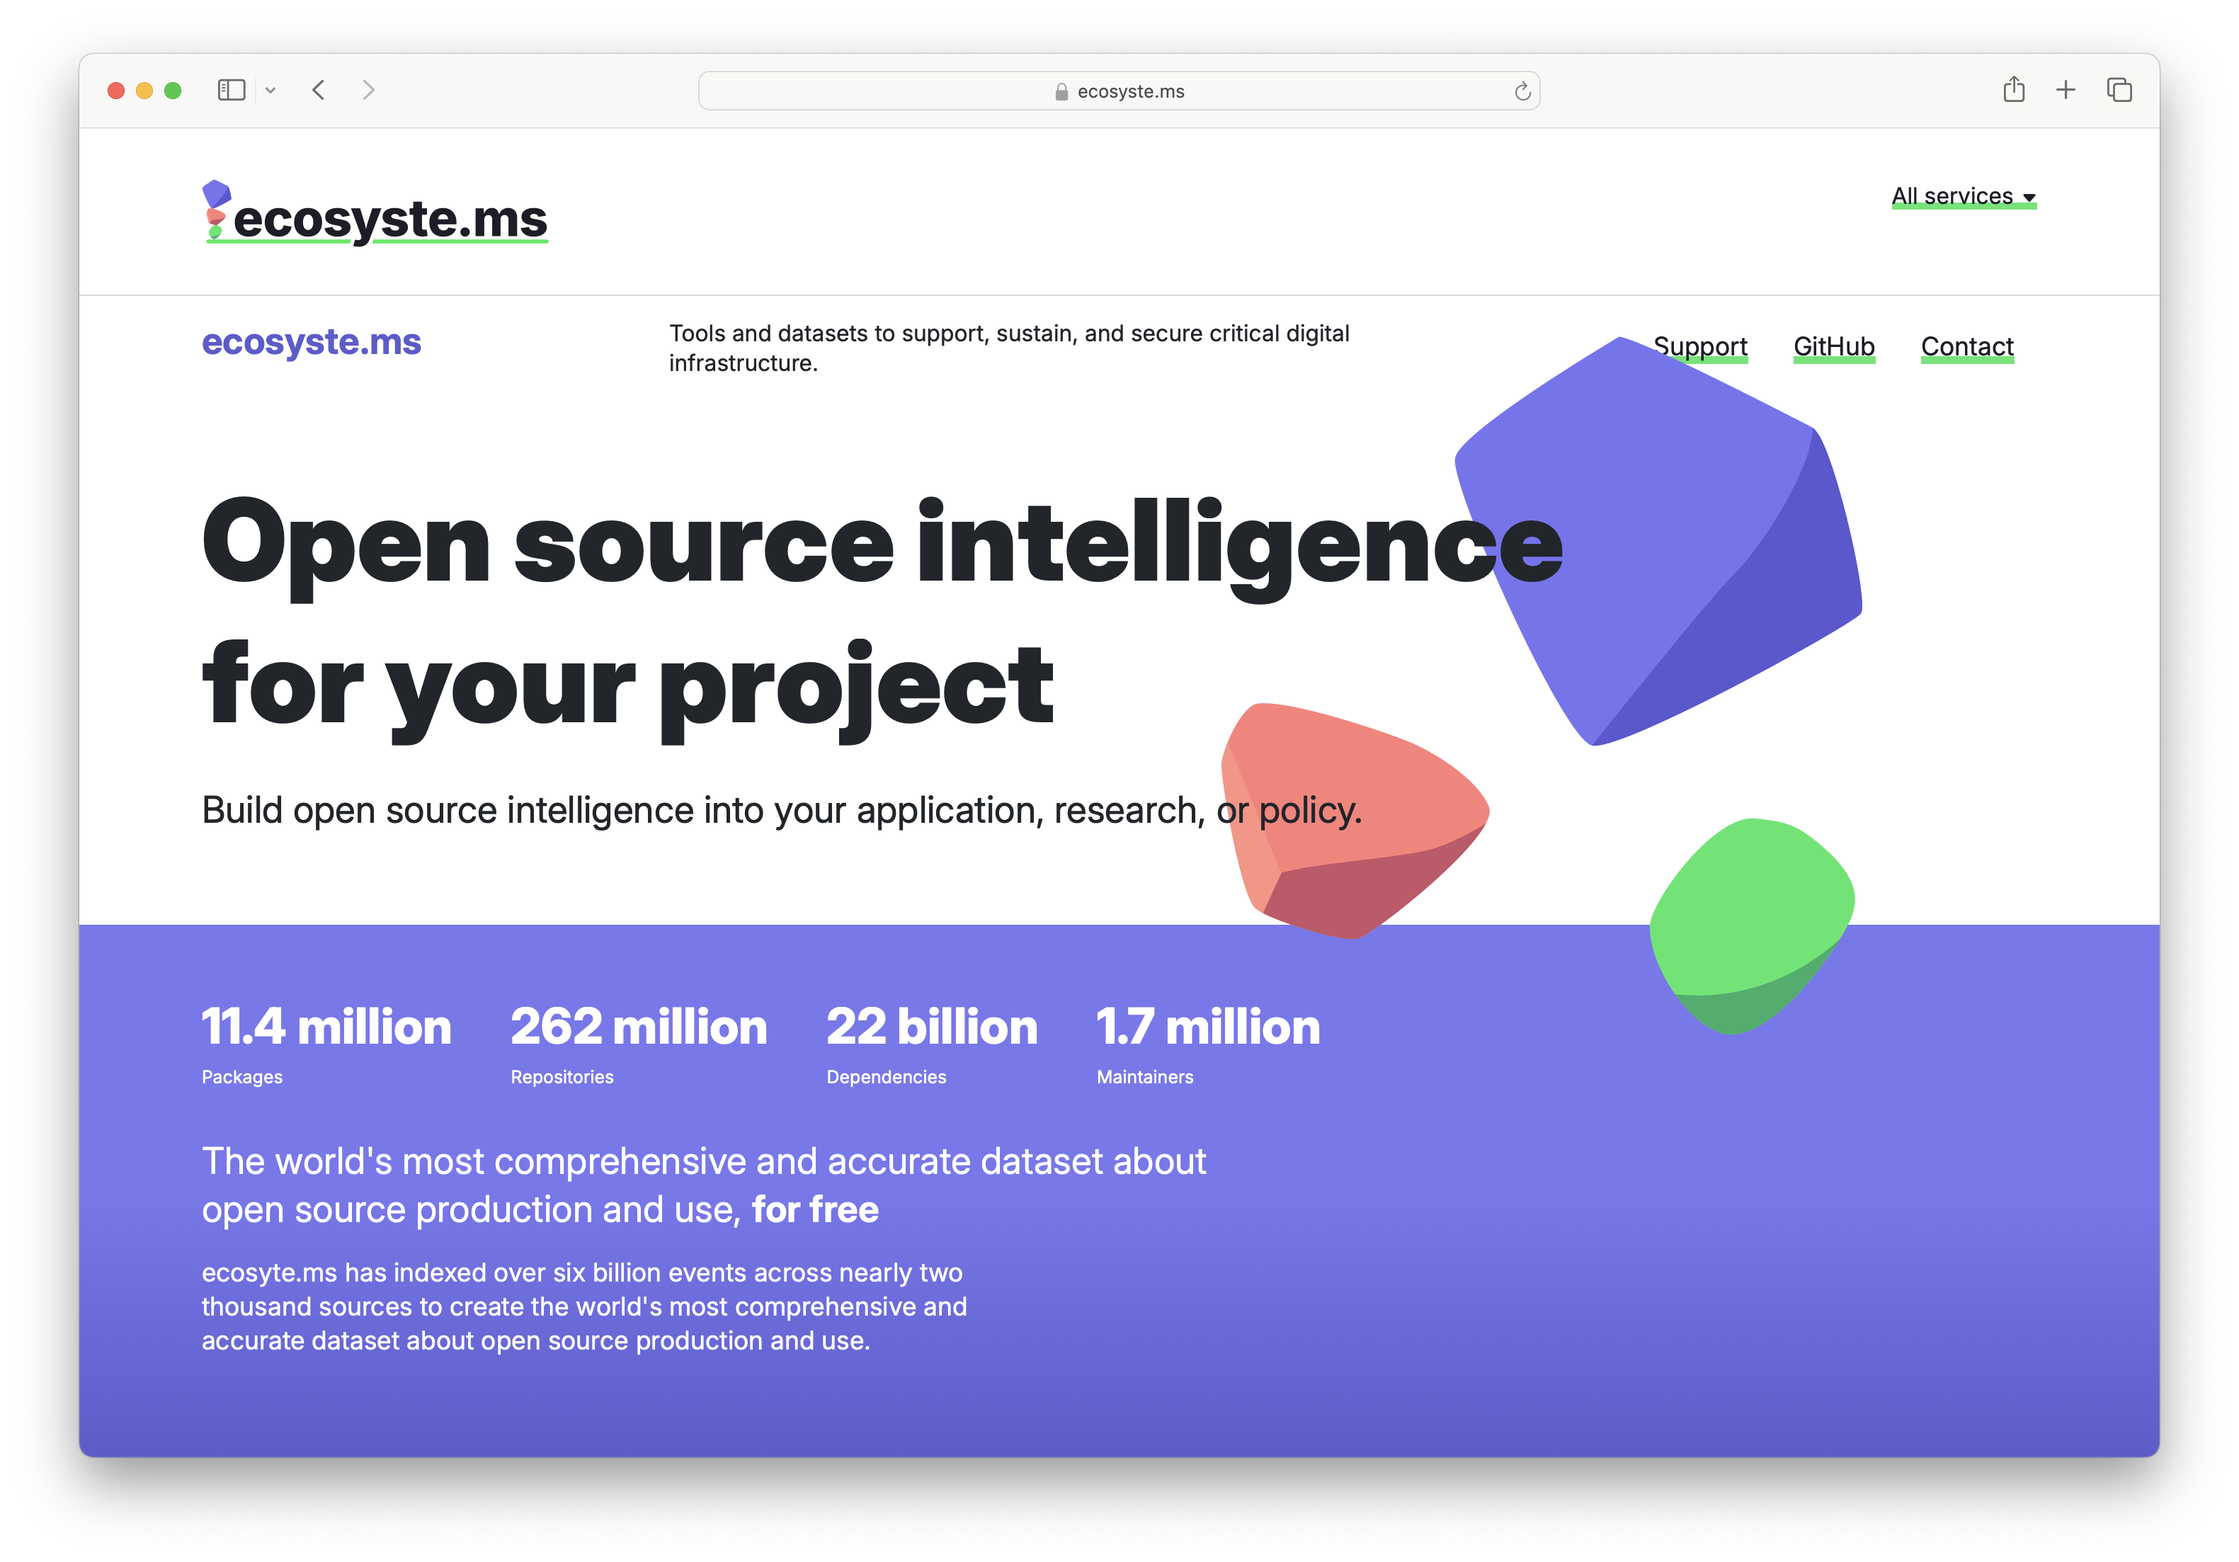
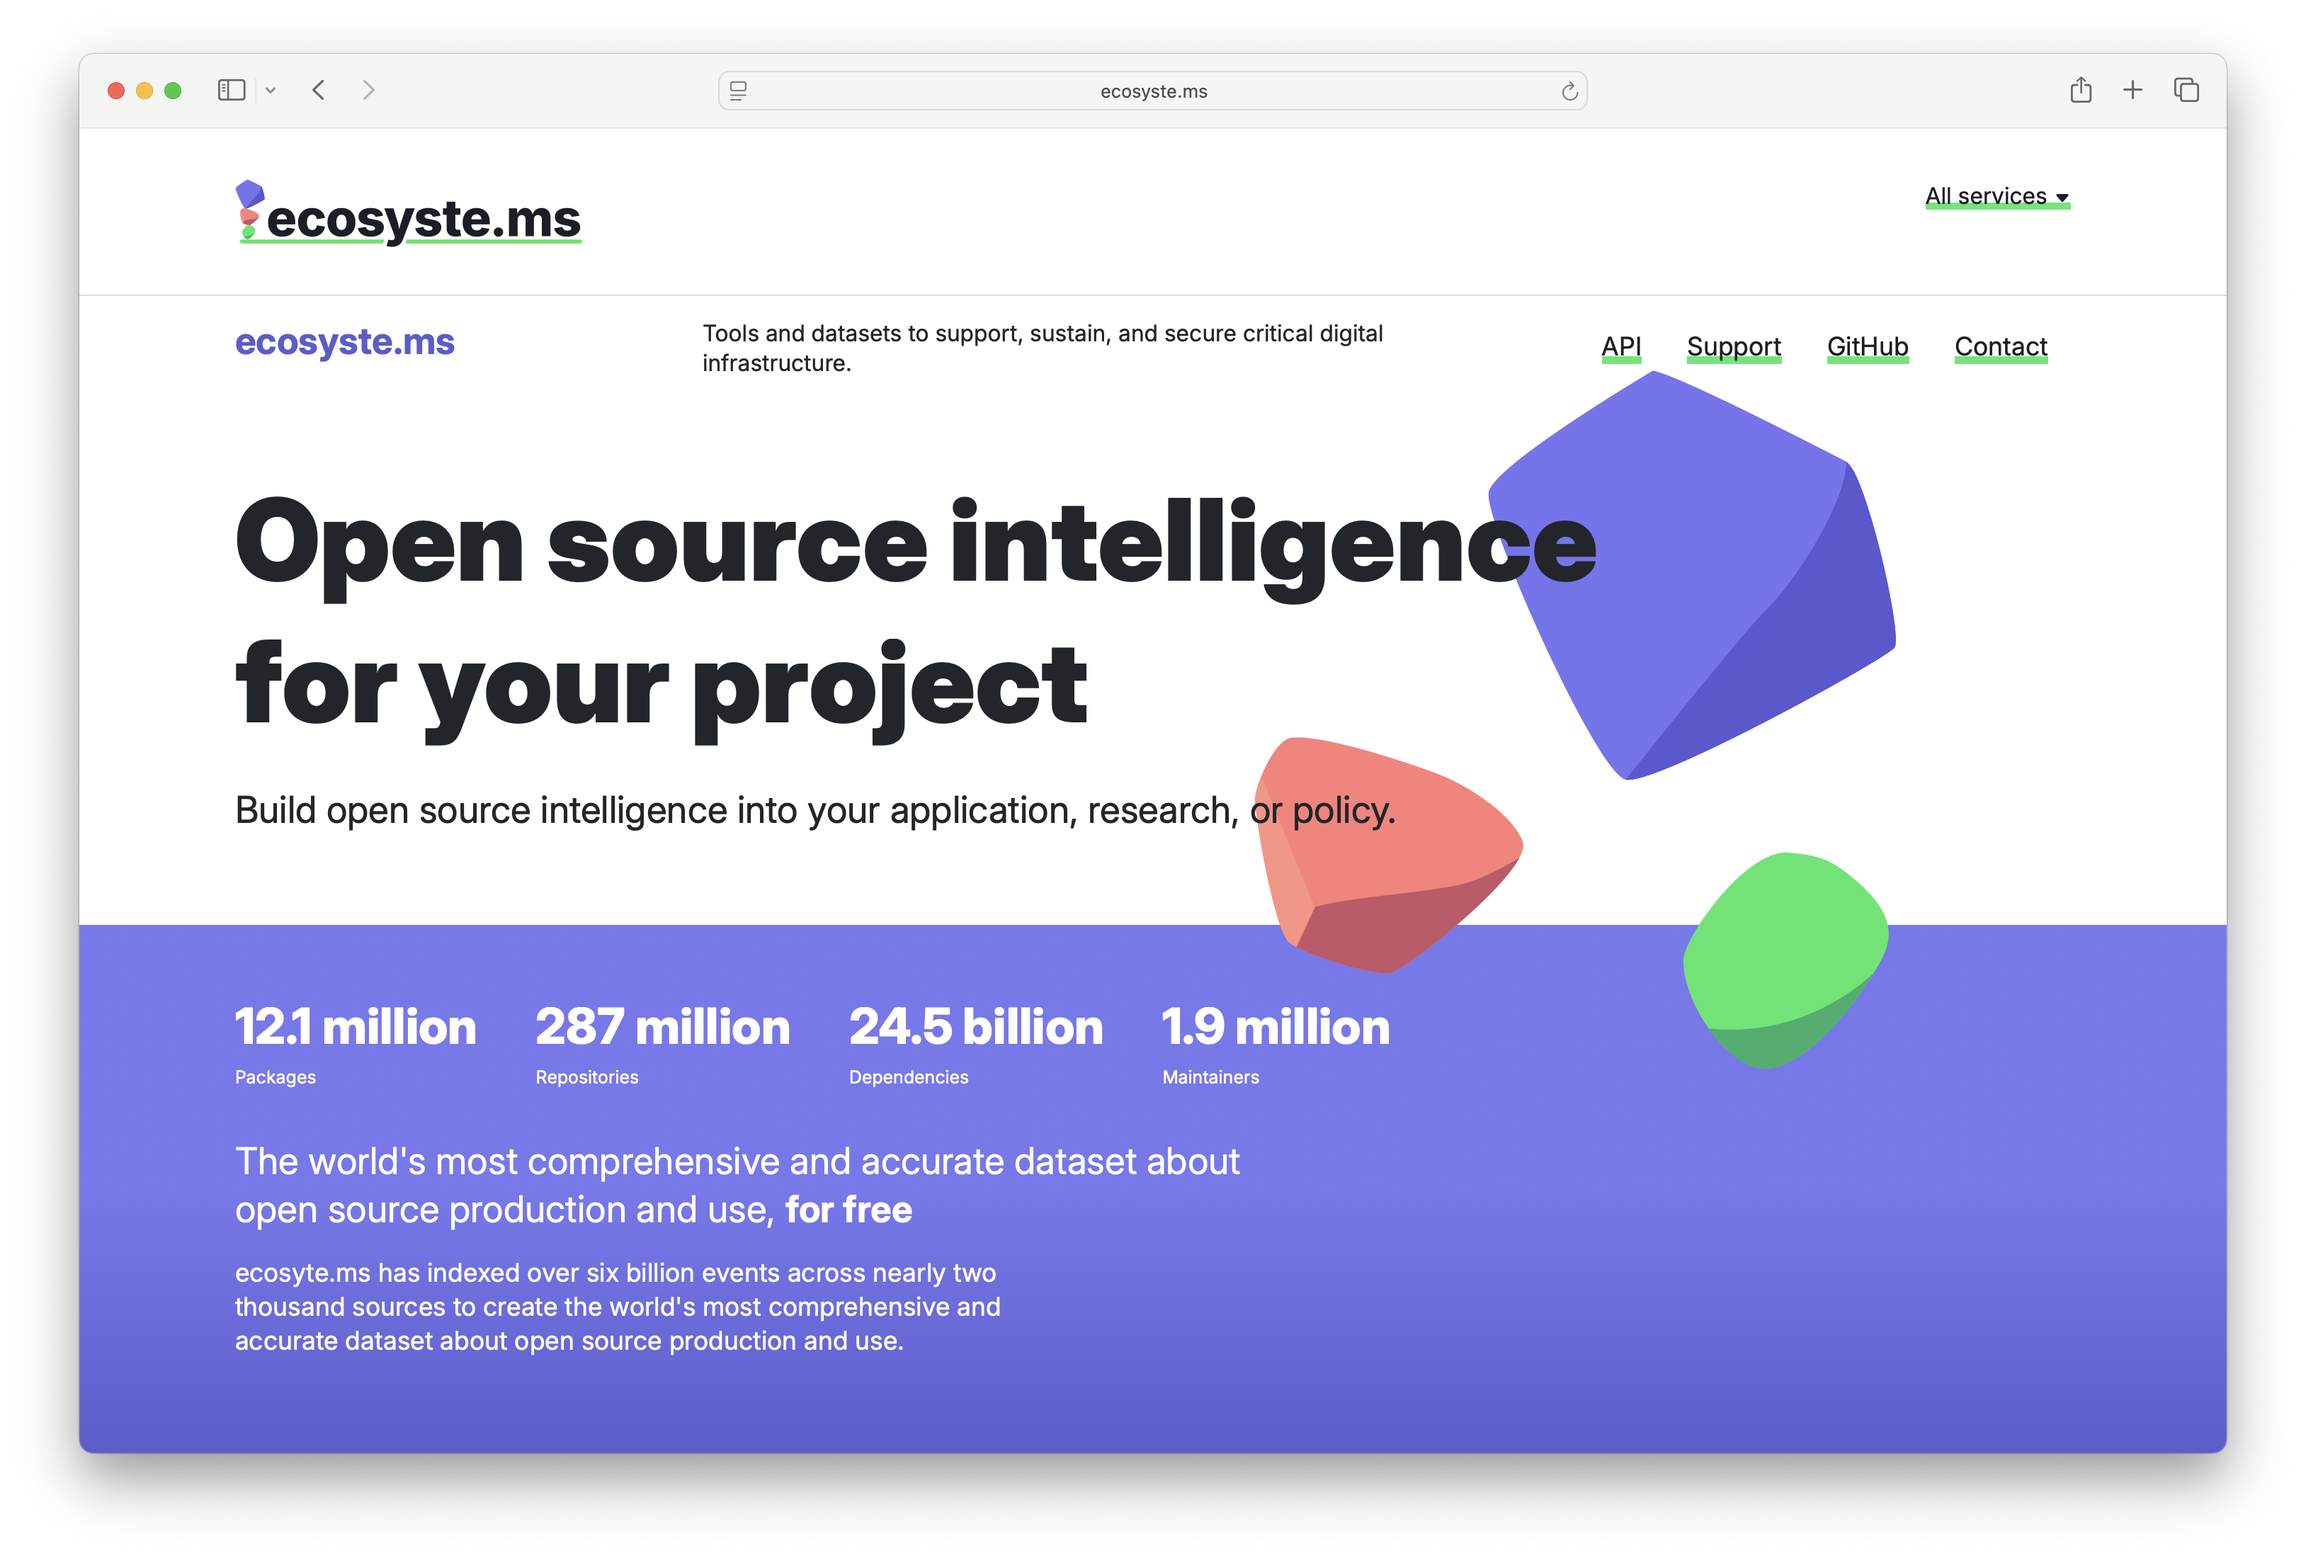
Update presentation statistics for the State of OSS Funding

diff --git a/index.html b/index.html
@@ -473,8 +473,7 @@
         <div class="content">
             <h1>The State of OSS Funding data: Insights from ecosyste.ms</h1>
             <div class="divider"></div>
-            <p>CHAOSScon North America 2025</p>
-            <p>Denver, CO</p>
+            <p>CHAOSS Funding Impact Measurement Working Group</p>
         </div>
         <img src="favicon.png" alt="Logo" class="slide-logo">
         <span class="slide-number">1/56</span>
@@ -522,27 +521,27 @@
             <h1>ecosyste.ms stats</h1>
             <div class="stat-grid">
                 <div class="stat-card">
-                    <span class="big-number">11.4M</span>
+                    <span class="big-number">12.1M</span>
                     <span>Packages</span>
                 </div>
                 <div class="stat-card">
-                    <span class="big-number">132M</span>
+                    <span class="big-number">141M</span>
                     <span>Versions</span>
                 </div>
                 <div class="stat-card">
-                    <span class="big-number">2.0T</span>
+                    <span class="big-number">2.5T</span>
                     <span>Downloads</span>
                 </div>
                 <div class="stat-card">
-                    <span class="big-number">1.7M</span>
+                    <span class="big-number">1.9M</span>
                     <span>Maintainers</span>
                 </div>
                 <div class="stat-card">
-                    <span class="big-number">262M</span>
+                    <span class="big-number">287M</span>
                     <span>Repositories</span>
                 </div>
                 <div class="stat-card">
-                    <span class="big-number">22B</span>
+                    <span class="big-number">24B</span>
                     <span>Dependencies</span>
                 </div>
             </div>
@@ -642,11 +641,11 @@ buy_me_a_coffee: andrewnez</code></pre>
             <h1>Funding links in all packages</h1>
             <div class="stat-grid">
                 <div class="stat-card">
-                    <span class="big-number">376,892</span>
+                    <span class="big-number">435,289</span>
                     <span>Packages</span>
                 </div>
                 <div class="stat-card">
-                    <span class="big-number">3.26%</span>
+                    <span class="big-number">3.59%</span>
                     <span>Percent</span>
                 </div>
             </div>
@@ -680,17 +679,18 @@ buy_me_a_coffee: andrewnez</code></pre>
         <div class="content">
             <h1>Top Ecosystems by Number of Funded Packages</h1>
             <ul>
-                <li><span class="highlight"><span class="highlight">npmjs.org</span> </span> — 150,926 funded packages (3.0%)</li>
-                <li><span class="highlight"><span class="highlight">pypi.org</span> </span> — 49,172 funded packages (7.07%)</li>
-                <li><span class="highlight"><span class="highlight">proxy.golang.org</span> </span> — 40,169 funded packages (2.11%)</li>
-                <li><span class="highlight"><span class="highlight">packagist.org</span> </span> — 29,776 funded packages (6.49%)</li>
-                <li><span class="highlight"><span class="highlight">repo1.maven.org</span> </span> — 25,560 funded packages (4.88%)</li>
-                <li><span class="highlight"><span class="highlight">nuget.org</span> </span> — 18,964 funded packages (2.61%)</li>
-                <li><span class="highlight"><span class="highlight">crates.io</span> </span> — 18,899 funded packages (9.74%)</li>
-                <li><span class="highlight"><span class="highlight">rubygems.org</span> </span> — 7,068 funded packages (3.56%)</li>
-                <li><span class="highlight"><span class="highlight">bower.io</span> </span> — 3,143 funded packages (4.48%)</li>
-                <li><span class="highlight"><span class="highlight">github actions</span> </span> — 2,946 funded packages (9.22%)</li>
-                <li><span class="highlight"><span class="highlight">pub.dev</span> </span> — 2,803 funded packages (4.24%)</li>
+                <li><span class="highlight"><span class="highlight">npmjs.org</span> </span> — 158,505 funded packages (3.05%)</li>
+                <li><span class="highlight"><span class="highlight">proxy.golang.org</span> </span> — 52,523 funded packages (2.66%)</li>
+                <li><span class="highlight"><span class="highlight">pypi.org</span> </span> — 52,265 funded packages (7.04%)</li>
+                <li><span class="highlight"><span class="highlight">repo1.maven.org</span> </span> — 38,330 funded packages (6.85%)</li>
+                <li><span class="highlight"><span class="highlight">packagist.org</span> </span> — 31,153 funded packages (6.62%)</li>
+                <li><span class="highlight"><span class="highlight">nuget.org</span> </span> — 26,065 funded packages (3.48%)</li>
+                <li><span class="highlight"><span class="highlight">crates.io</span> </span> — 20,164 funded packages (9.54%)</li>
+                <li><span class="highlight"><span class="highlight">rubygems.org</span> </span> — 7,210 funded packages (3.6%)</li>
+                <li><span class="highlight"><span class="highlight">pub.dev</span> </span> — 3,508 funded packages (4.95%)</li>
+                <li><span class="highlight"><span class="highlight">bower.io</span> </span> — 3,362 funded packages (4.79%)</li>
+                <li><span class="highlight"><span class="highlight">alpine</span> </span> — 2,737 funded packages (7.29%)</li>
+                <li><span class="highlight"><span class="highlight">github actions</span> </span> — 2,255 funded packages (6.99%)</li>
             </ul>
         </div>
         <img src="favicon.png" alt="Logo" class="slide-logo">
@@ -736,11 +736,11 @@ buy_me_a_coffee: andrewnez</code></pre>
             <h1>Critical Package Funding Links</h1>
             <div class="stat-grid">
                 <div class="stat-card">
-                    <span class="big-number">2,661</span>
+                    <span class="big-number">2749</span>
                     <span>Packages</span>
                 </div>
                 <div class="stat-card">
-                    <span class="big-number">27.2%</span>
+                    <span class="big-number">28.2%</span>
                     <span>Percent</span>
                 </div>
             </div>
@@ -1269,7 +1269,7 @@ buy_me_a_coffee: andrewnez</code></pre>
 
     <div class="slide intro-slide">
         <div class="content">
-            <h1>Things that didn't fit in a 15 min talk</h1>
+            <h1>Things that didn't fit into this talk</h1>
             <ul>
                 <li>Foundations</li>
                 <li>Grants</li>
@@ -1328,7 +1328,7 @@ buy_me_a_coffee: andrewnez</code></pre>
 
     <div class="slide intro-slide">
         <div class="content">
-            <h1>We won't have time for questions!</h1>
+            <h1>Questions!</h1>
             <ul>
                 <li>Web: https://ecosyste.ms</li>
                 <li>Email: hello@ecosyste.ms</li>
@@ -1422,7 +1422,7 @@ buy_me_a_coffee: andrewnez</code></pre>
         document.addEventListener('keydown', hideNavHint);
         
         // Auto-reload when file changes
-        let lastModified = 1751095564526;
+        let lastModified = 1761140511363;
         setInterval(() => {
             fetch('/check-update?t=' + Date.now())
                 .then(res => res.json())

diff --git a/text.md b/text.md
@@ -2,9 +2,7 @@
 
 # The State of OSS Funding data: Insights from ecosyste.ms
 
-CHAOSScon North America 2025
-
-Denver, CO
+CHAOSS Funding Impact Measurement Working Group
 
 # Pop Quiz Warning
 
@@ -24,13 +22,13 @@ There will be a pop quiz at the end of this talk, pay close attention!
 
 # ecosyste.ms stats
 
-Packages: 11.4M
-Versions: 132M
-Downloads: 2.0T
+Packages: 12.1M
+Versions: 141M
+Downloads: 2.5T
 
-Maintainers: 1.7M
-Repositories: 262M
-Dependencies: 22B
+Maintainers: 1.9M
+Repositories: 287M
+Dependencies: 24B
 
 # Funding in Open Source
 
@@ -84,8 +82,8 @@ I've been mining the ecosyste.ms datasets for funding links in open source packa
 
 # Funding links in all packages
 
-Packages: 376,892
-Percent: 3.26%
+Packages: 435,289
+Percent: 3.59%
 
 # Most Popular Funding Domains
 
@@ -103,17 +101,18 @@ Percent: 3.26%
 
 # Top Ecosystems by Number of Funded Packages
 
-- [npmjs.org](https://npmjs.org) — 150,926 funded packages (3.0%)
-- [pypi.org](https://pypi.org) — 49,172 funded packages (7.07%)
-- [proxy.golang.org](https://proxy.golang.org) — 40,169 funded packages (2.11%)
-- [packagist.org](https://packagist.org) — 29,776 funded packages (6.49%)
-- [repo1.maven.org](https://repo1.maven.org) — 25,560 funded packages (4.88%)
-- [nuget.org](https://nuget.org) — 18,964 funded packages (2.61%)
-- [crates.io](https://crates.io) — 18,899 funded packages (9.74%)
-- [rubygems.org](https://rubygems.org) — 7,068 funded packages (3.56%)
-- [bower.io](https://bower.io) — 3,143 funded packages (4.48%)
-- [github actions](https://github.com/features/actions) — 2,946 funded packages (9.22%)
-- [pub.dev](https://pub.dev) — 2,803 funded packages (4.24%)
+- [npmjs.org](https://npmjs.org) — 158,505 funded packages (3.05%)
+- [proxy.golang.org](https://proxy.golang.org) — 52,523 funded packages (2.66%)
+- [pypi.org](https://pypi.org) — 52,265 funded packages (7.04%)
+- [repo1.maven.org](https://repo1.maven.org) — 38,330 funded packages (6.85%)
+- [packagist.org](https://packagist.org) — 31,153 funded packages (6.62%)
+- [nuget.org](https://nuget.org) — 26,065 funded packages (3.48%)
+- [crates.io](https://crates.io) — 20,164 funded packages (9.54%)
+- [rubygems.org](https://rubygems.org) — 7,210 funded packages (3.6%)
+- [pub.dev](https://pub.dev) — 3,508 funded packages (4.95%)
+- [bower.io](https://bower.io) — 3,362 funded packages (4.79%)
+- [alpine](https://alpine) — 2,737 funded packages (7.29%)
+- [github actions](https://github.com/features/actions) — 2,255 funded packages (6.99%)
 
 # Critical Packages
 
@@ -141,8 +140,8 @@ That means only <b>0.0865%</b> of all packages are critical.
 
 # Critical Package Funding Links
 
-Packages: 2,661
-Percent: 27.2%
+Packages: 2749
+Percent: 28.2%
 
 # Average Funding Links per Critical Packages
 
@@ -400,7 +399,7 @@ Organisations: 359
 - <b>Concentration effect</b>: Well-funded maintainers can afford to maintain more projects, while unfunded maintainers struggle with even one
 - <b>Potential gamification</b>: Some maintainers might strategically break packages into smaller dependencies to increase their critical package count
 
-# Things that didn't fit in a 15 min talk
+# Things that didn't fit into this talk
 
 - Foundations
 - Grants
@@ -433,7 +432,7 @@ How many times was sindresorhus mentioned in the talk?
 - https://opencollective.ecosyste.ms
 - https://sponsors.ecosyste.ms
 
-# We won't have time for questions!
+# Questions!
 
 - Web: https://ecosyste.ms
 - Email: hello@ecosyste.ms
